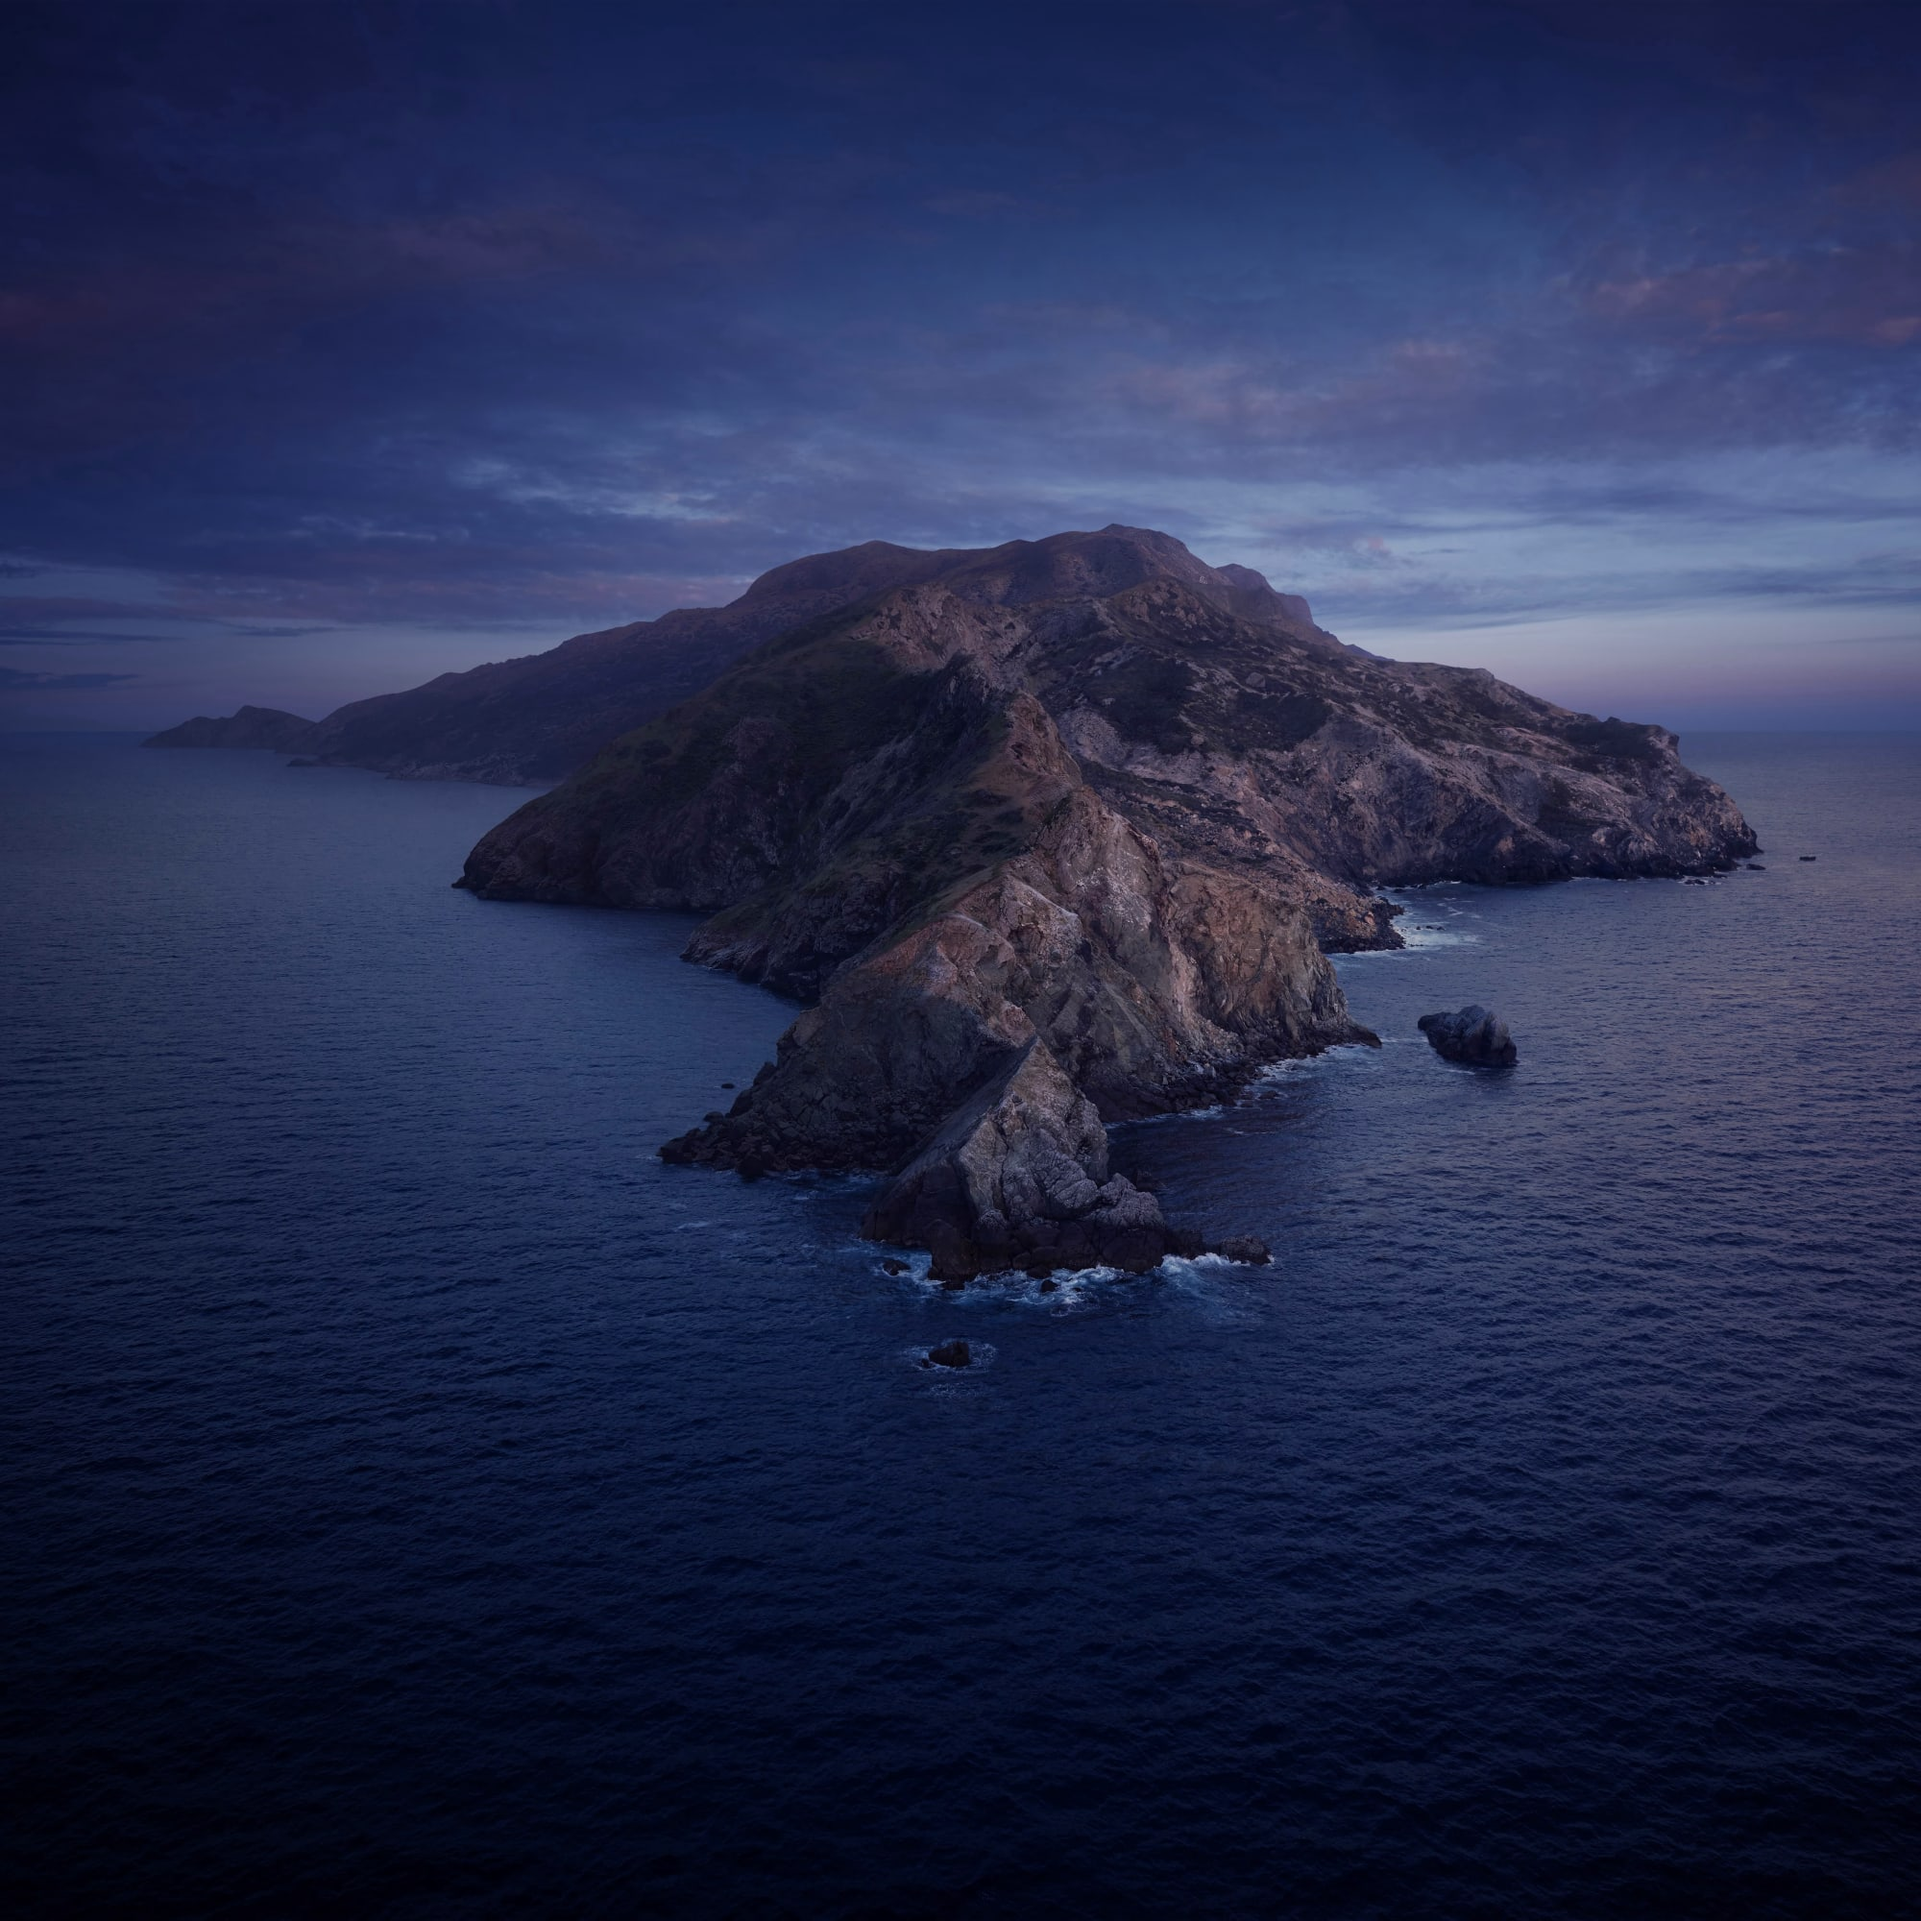
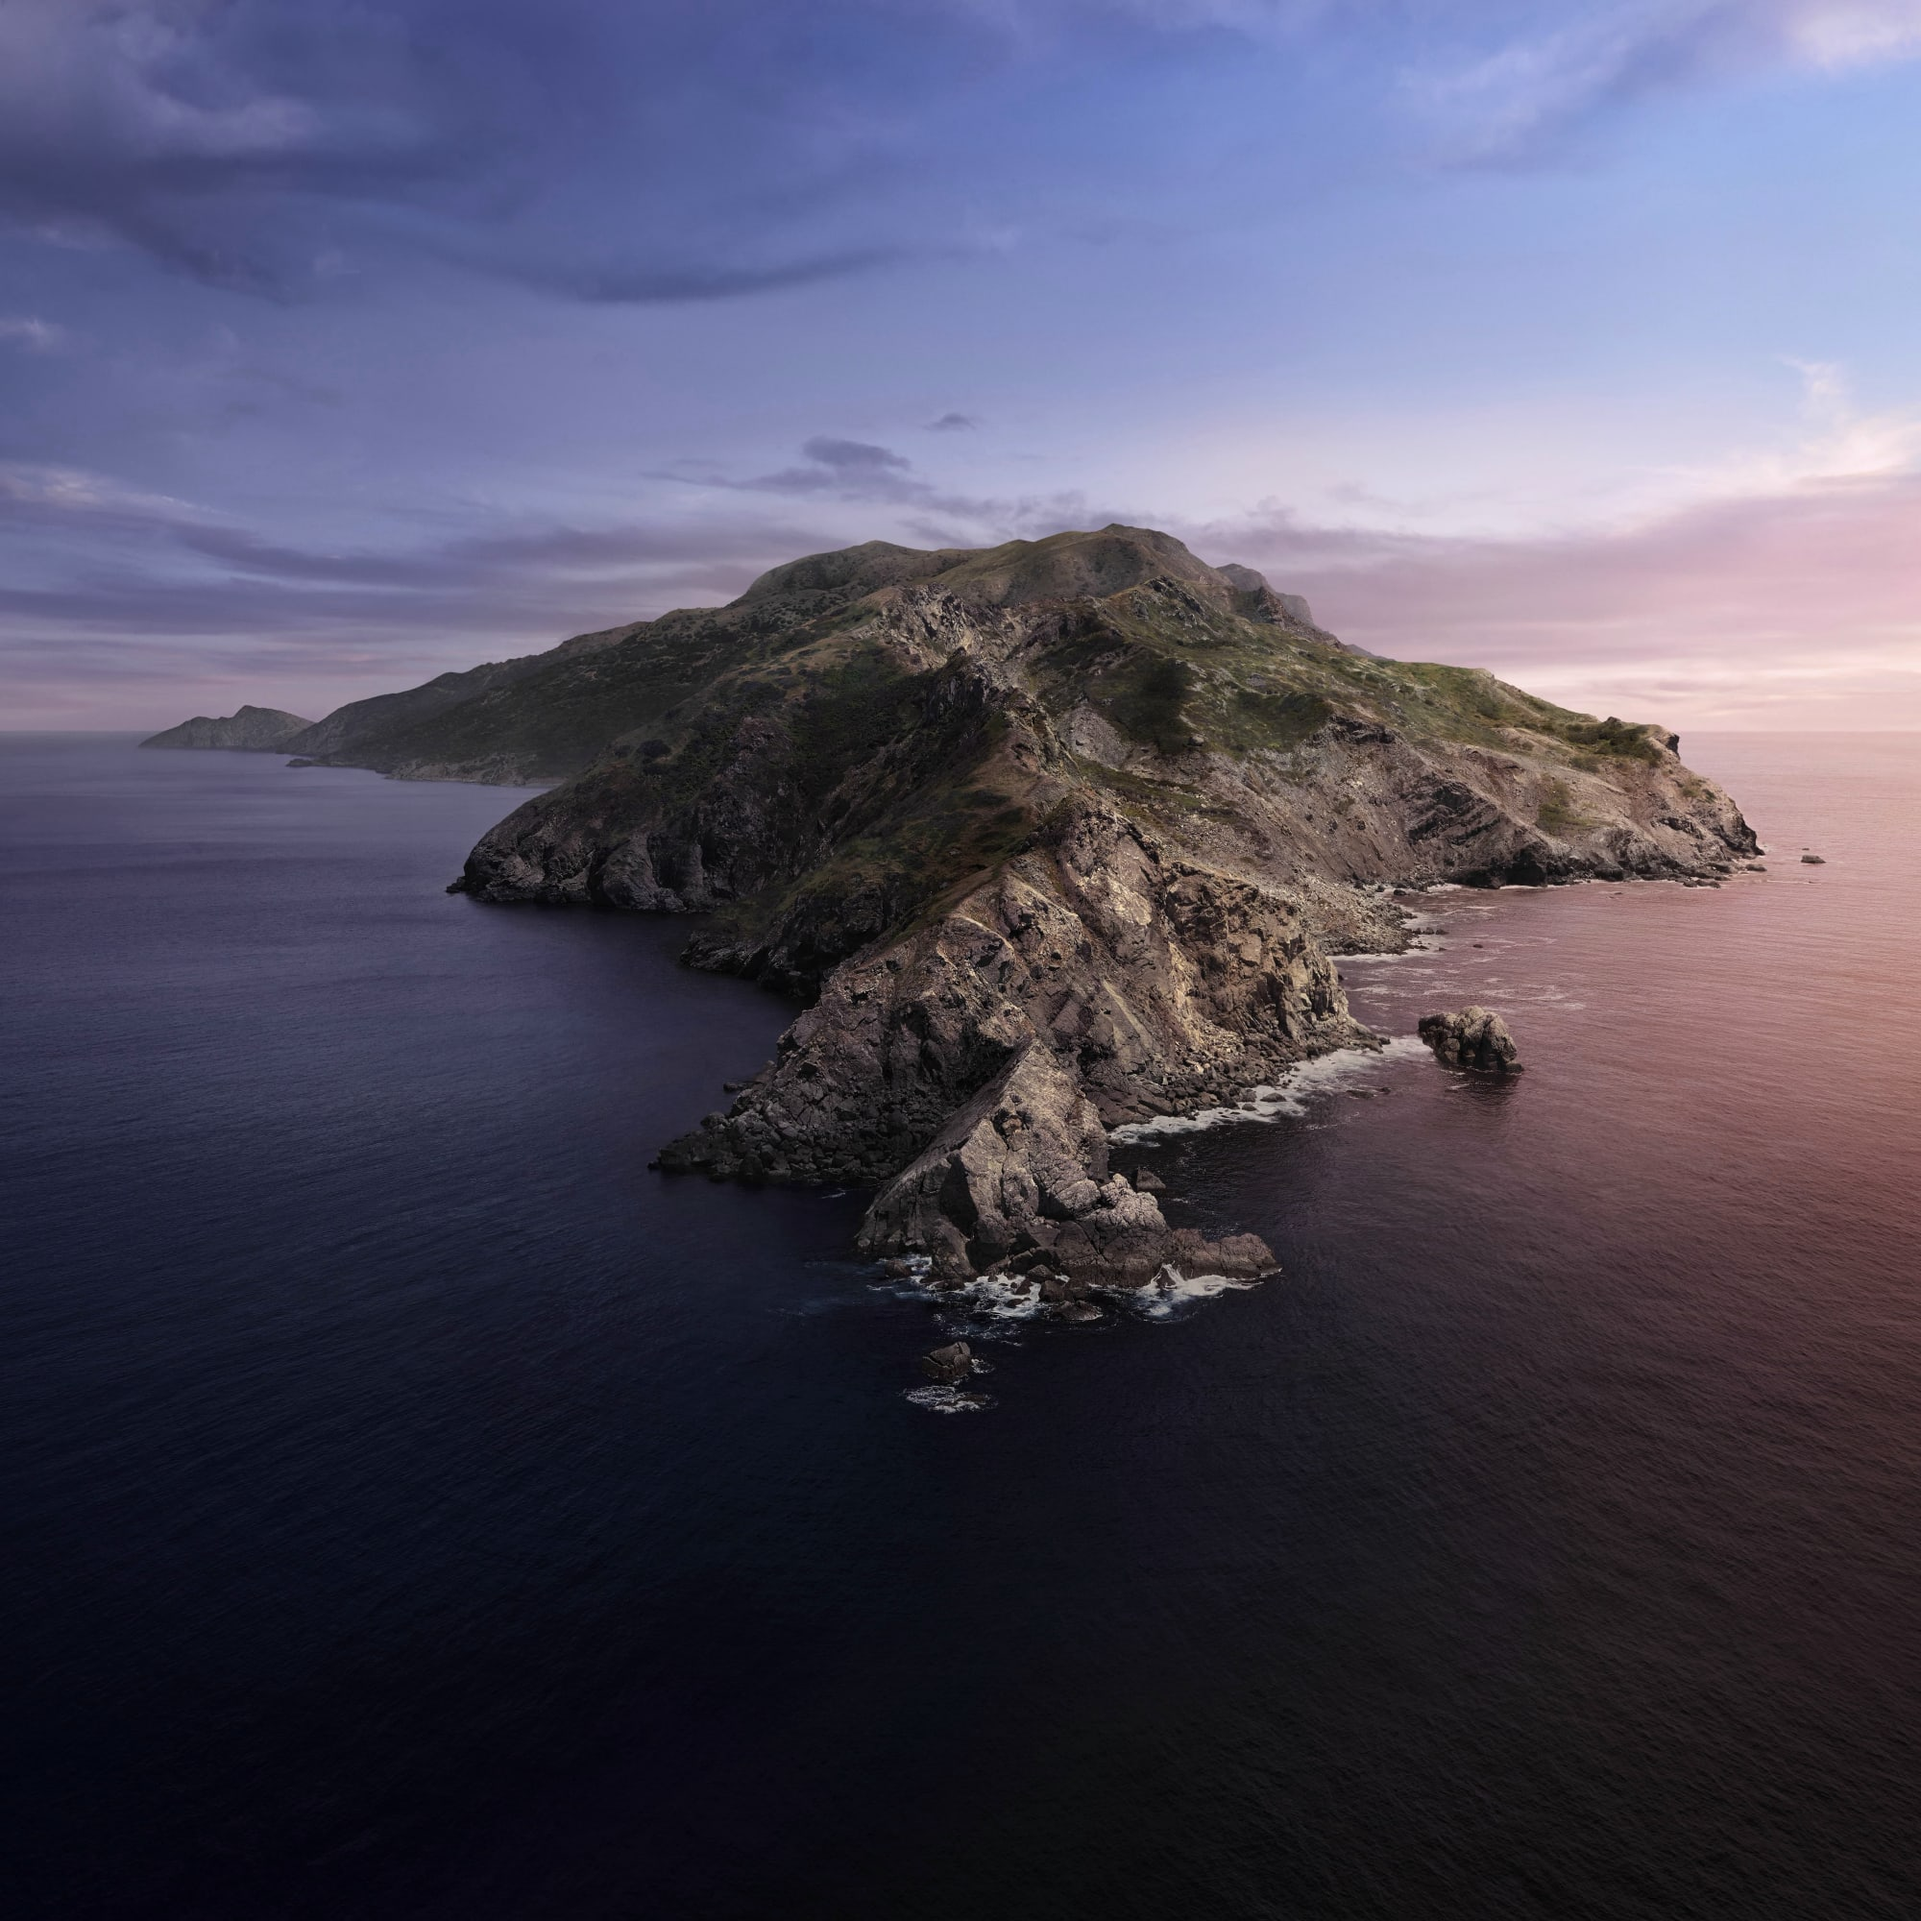
Basic mechanism

diff --git a/src/hooks/use-timely-wallpapers.ts b/src/hooks/use-timely-wallpapers.ts
@@ -1,0 +1,61 @@
+import { useAtom } from 'jotai';
+import { useEffect } from 'preact/hooks';
+import { wallpapersConfig } from '__/data/wallpapers/wallpapers.config';
+import { smallerClosestValue } from '__/helpers/smaller-closest-value';
+import { wallpaperImageStore } from '__/stores/wallpapers.store';
+import { useInterval } from './use-interval';
+import { useTheme } from './use-theme';
+import { useWallpaperName } from './use-wallpaper-name';
+
+let isInitialized = false;
+
+export const useTimelyWallpapers = () => {
+  const [wallpaperName, setWallpaperName] = useWallpaperName();
+  const [currWallpaperImg, setCurrWallpaperImg] = useAtom(wallpaperImageStore);
+  const [theme, setTheme] = useTheme();
+
+  console.log({ wallpaperName });
+
+  function handler() {
+    if (wallpapersConfig[wallpaperName].type === 'standalone') return;
+    // console.log({ wallpaperName });
+    /** Only dynamic and light/dark wallpaper logic to tackle */
+    // Now check if user really wants the change to happen.
+
+    const date = new Date();
+    const hour = date.getHours();
+
+    const wallpaperTimestampsMap = wallpapersConfig[wallpaperName].wallpaperTimestamps;
+    const timestamps = Object.keys(wallpaperTimestampsMap);
+
+    const minTimestamp = Math.min(...timestamps);
+    const maxTimestamp = Math.max(...timestamps);
+
+    if (hour > maxTimestamp || hour < minTimestamp) {
+      // Go for the min timestamp value
+      setCurrWallpaperImg(wallpaperTimestampsMap?.[maxTimestamp] || currWallpaperImg);
+      setTheme('dark');
+      return;
+    }
+
+    // Now set the right timestamp
+    console.log({ timestamps });
+    const chosenTimeStamp = smallerClosestValue(timestamps, hour);
+    setCurrWallpaperImg(wallpaperTimestampsMap?.[chosenTimeStamp] || currWallpaperImg);
+    console.log({ chosenTimeStamp });
+    setTheme('light');
+  }
+
+  useEffect(() => {
+    handler();
+  }, []);
+
+  useInterval(() => {
+    // Return if this instance has already been initialised
+    if (isInitialized) return;
+
+    handler();
+  }, 1000);
+
+  return [currWallpaperImg, setCurrWallpaperImg] as const;
+};

diff --git a/src/views/desktop/Desktop.tsx b/src/views/desktop/Desktop.tsx
@@ -1,9 +1,12 @@
+import { useAtom } from 'jotai';
 import { useEffect, useRef } from 'preact/hooks';
 import { ContextMenu } from '__/components/Desktop/ContextMenu/ContextMenu';
 import { StartupChime } from '__/components/Desktop/StartupChime';
 import { WindowsArea } from '__/components/Desktop/Window/WindowsArea';
 import { Dock } from '__/components/dock/Dock';
 import { TopBar } from '__/components/topbar/TopBar';
+import { useTimelyWallpapers } from '__/hooks';
+import { useWallpaperName } from '__/hooks/use-wallpaper-name';
 import css from './Desktop.module.scss';
 
 const DarkBackground = '/assets/wallpapers/3-1.jpg';
@@ -11,6 +14,9 @@ const LightBackground = '/assets/wallpapers/3-2.jpg';
 
 export const Desktop = () => {
   const outerRef = useRef<HTMLDivElement>();
+
+  useWallpaperName();
+  const [currWallpaperImg, setCurrWallpaperImg] = useTimelyWallpapers();
 
   useEffect(() => {
     preloadImage(DarkBackground);
@@ -28,7 +34,11 @@ export const Desktop = () => {
 
       <StartupChime />
 
-      <div class={css.backgroundCover} aria-hidden="true" />
+      <div
+        class={css.backgroundCover}
+        style={{ backgroundImage: `url(/assets/wallpapers/${currWallpaperImg}.jpg)` }}
+        aria-hidden="true"
+      />
     </>
   );
 };

diff --git a/src/data/wallpapers/wallpapers.config.ts b/src/data/wallpapers/wallpapers.config.ts
@@ -1,0 +1,49 @@
+import { Theme } from '__/stores/theme.store';
+
+export type Wallpaper = {
+  name: string;
+  type: 'standalone' | 'automatic' | 'dynamic';
+
+  /** Timestamps definition in terms of when a new wallpaper should take effect */
+  wallpaperTimestamps?: Record<number, string>;
+
+  /** Timestamps for when the theme changes */
+  themeTimestamps?: Record<number, Theme>;
+};
+
+const createWallpapersConfig = <TConfig>(et: Record<keyof TConfig, Wallpaper>) => et;
+
+export const wallpapersConfig = createWallpapersConfig({
+  'big-sur-graphic': {
+    name: 'Big Sur Graphic',
+    type: 'automatic',
+    wallpaperTimestamps: {
+      7: '3-2',
+      18: '3-1',
+    },
+    themeTimestamps: {
+      7: 'light',
+      18: 'dark',
+    },
+  },
+  catalina: {
+    name: 'Catalina',
+    type: 'dynamic',
+    wallpaperTimestamps: {
+      7: '24-2',
+      9: '24-3',
+      11: '24-4',
+      13: '24-5',
+      15: '24-6',
+      16: '24-7',
+      17: '24-8',
+      18: '24-1',
+    },
+    themeTimestamps: {
+      9: 'light',
+      18: 'dark',
+    },
+  },
+});
+
+export type WallpaperID = keyof typeof wallpapersConfig;

diff --git a/src/hooks/use-wallpaper-name.ts b/src/hooks/use-wallpaper-name.ts
@@ -1,0 +1,32 @@
+/* `useWallpaperName` starts here */
+
+import { useAtom } from 'jotai';
+import { useEffect } from 'preact/hooks';
+import { useRef } from 'react';
+import { WallpaperID } from '__/data/wallpapers/wallpapers.config';
+import { wallpaperNameStore } from '__/stores/wallpapers.store';
+
+let isFirstUpdate = true;
+
+export function useWallpaperName() {
+  const { current: localWallpaperVal } = useRef(
+    localStorage.getItem<WallpaperID>('wallpaper:name'),
+  );
+  const [wallpaperName, setWallpaperName] = useAtom(wallpaperNameStore);
+
+  useEffect(() => {
+    if (isFirstUpdate) {
+      setWallpaperName(localWallpaperVal || 'big-sur-graphic');
+    }
+  }, []);
+
+  useEffect(() => {
+    // Needed, because without it, the theme after reload stays light only
+    if (isFirstUpdate) return void (isFirstUpdate = false);
+
+    localStorage.setItem('wallpaper:name', wallpaperName);
+  }, [wallpaperName]);
+
+  console.log([wallpaperName, setWallpaperName]);
+  return [wallpaperName, setWallpaperName] as const;
+}

diff --git a/src/components/apps/AppNexus.tsx b/src/components/apps/AppNexus.tsx
@@ -1,5 +1,5 @@
 import { AppID } from '__/stores/apps.store';
-import { lazy } from 'react';
+import { lazy } from 'preact/compat';
 
 type AppNexusProps = {
   appID: AppID;
@@ -9,6 +9,7 @@ type AppNexusProps = {
 const Calculator = lazy(() => import('./Calculator/Calculator'));
 const VSCode = lazy(() => import('./VSCode/VSCode'));
 const Calendar = lazy(() => import('./Calendar/Calendar'));
+const SystemPreferences = lazy(() => import('./SystemPreferences/SystemPreferences'));
 
 const PlaceholderApp = lazy(() => import('./Placeholder/Placeholder'));
 
@@ -16,6 +17,7 @@ export const AppNexus = ({ appID, isBeingDragged }: AppNexusProps) => {
   if (appID === 'calculator') return <Calculator />;
   if (appID === 'vscode') return <VSCode isBeingDragged={isBeingDragged} />;
   if (appID === 'calendar') return <Calendar />;
+  if (appID === 'system-preferences') return <SystemPreferences />;
 
   return <PlaceholderApp appID={appID} />;
 };

diff --git a/src/components/apps/SystemPreferences/SystemPreferences.tsx b/src/components/apps/SystemPreferences/SystemPreferences.tsx
@@ -1,0 +1,14 @@
+import { WallpaperSwitcher } from './WallpaperSwitcher/WallpaperSwitcher';
+import css from './SystemPreferences.module.scss';
+import clsx from 'clsx';
+
+export const SystemPreferences = () => {
+  return (
+    <section class={css.container}>
+      <header class={clsx('app-window-drag-handle', css.header)}></header>
+      <WallpaperSwitcher />
+    </section>
+  );
+};
+
+export default SystemPreferences;

diff --git a/src/helpers/smaller-closest-value.ts b/src/helpers/smaller-closest-value.ts
@@ -1,0 +1,16 @@
+/**
+ * Find the closest smaller number in an array
+ * @param arr Ascendingly sorted array
+ * @param value Value to check against
+ */
+export function smallerClosestValue(arr: number[], value: number) {
+  let prevVal = arr[0];
+
+  for (const val of arr) {
+    if (val > value) return prevVal;
+    if (val == value) return val;
+    prevVal = val;
+  }
+
+  return arr[arr.length - 1];
+}

diff --git a/src/views/desktop/Desktop.module.scss b/src/views/desktop/Desktop.module.scss
@@ -21,9 +21,9 @@
   background-size: cover;
   background-position: center;
 
-  background-image: url(/assets/wallpapers/3-2.jpg);
+  // background-image: url(/assets/wallpapers/3-2.jpg);
 
-  :global(body.dark) & {
-    background-image: url(/assets/wallpapers/3-1.jpg);
-  }
+  // :global(body.dark) & {
+  //   background-image: url(/assets/wallpapers/3-1.jpg);
+  // }
 }

diff --git a/src/hooks/index.ts b/src/hooks/index.ts
@@ -4,3 +4,4 @@ export { useTheme } from './use-theme';
 export { useTimeout } from './use-timeout';
 export { useContextMenu } from './use-context-menu';
 export { useFocusOutside } from './use-focus-outside';
+export { useTimelyWallpapers } from './use-timely-wallpapers';

diff --git a/src/stores/wallpapers.store.ts b/src/stores/wallpapers.store.ts
@@ -1,0 +1,6 @@
+import { atom } from 'jotai';
+import { WallpaperID } from '__/data/wallpapers/wallpapers.config';
+
+export const wallpaperImageStore = atom('3-2');
+
+export const wallpaperNameStore = atom<WallpaperID>('big-sur-graphic');

diff --git a/src/components/apps/SystemPreferences/SystemPreferences.module.scss b/src/components/apps/SystemPreferences/SystemPreferences.module.scss
@@ -1,0 +1,13 @@
+.container {
+  background-color: var(--app-color-light);
+}
+
+.header {
+  padding: 1rem 1rem;
+
+  width: 100%;
+
+  position: absolute;
+  top: 0;
+  left: 0;
+}

diff --git a/src/components/apps/SystemPreferences/WallpaperSwitcher/WallpaperSwitcher.tsx b/src/components/apps/SystemPreferences/WallpaperSwitcher/WallpaperSwitcher.tsx
@@ -1,0 +1,5 @@
+export const WallpaperSwitcher = () => {
+  return <></>;
+};
+
+export default WallpaperSwitcher;
